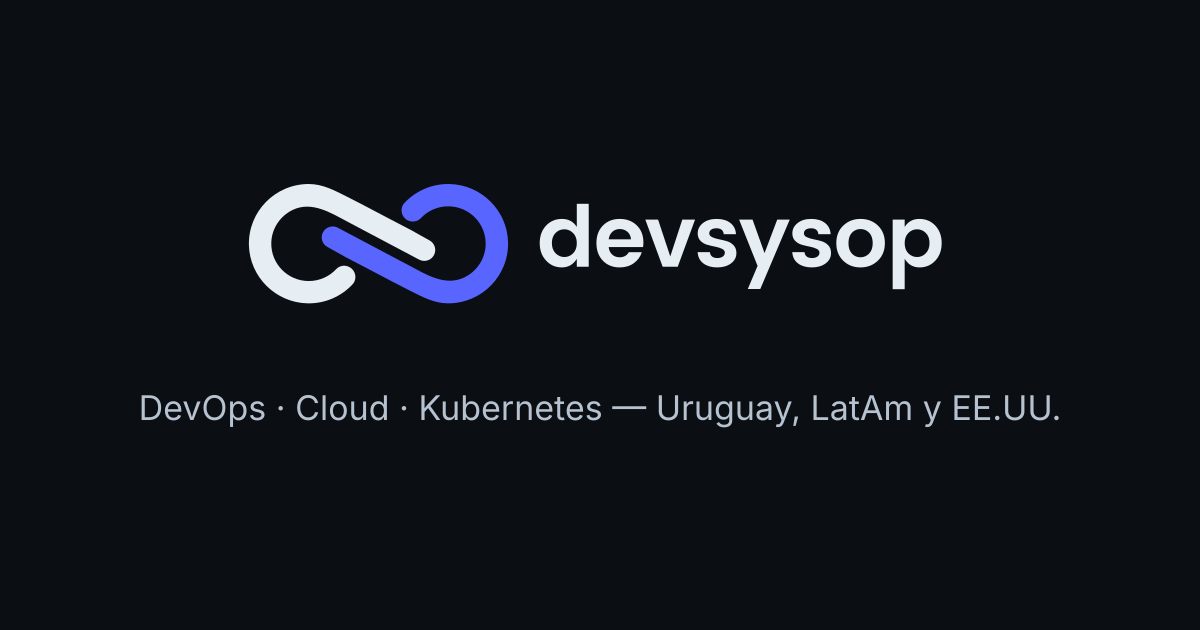
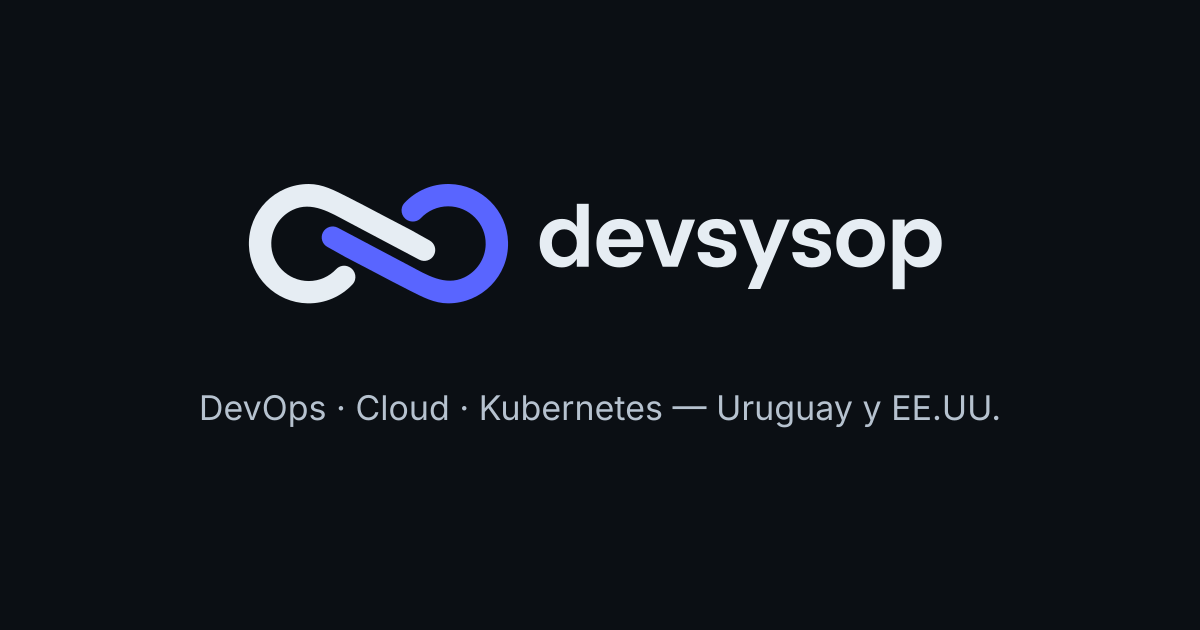
building new website Fri Nov 27 01:08:59 -03 2026

Changed region(s): [[0.0925, 0.6032, 0.8942, 0.6937]]

diff --git a/index.html b/index.html
@@ -4,7 +4,7 @@
   <meta charset="utf-8">
   <meta name="viewport" content="width=device-width, initial-scale=1">
   <title>DevSysOp — DevOps, Cloud y Kubernetes para tu empresa</title>
-  <meta name="description" content="Diseñamos, migramos y operamos infraestructura cloud para startups y pymes en Uruguay, Latinoamérica y EE.UU. CI/CD, Kubernetes, Terraform y soporte mensual.">
+  <meta name="description" content="Diseñamos, migramos y operamos infraestructura cloud para startups y pymes en Uruguay y EE.UU. CI/CD, Kubernetes, Terraform y soporte mensual.">
   <link rel="canonical" href="https://devsysop.com/">
 
   <meta property="og:type" content="website">
@@ -43,7 +43,7 @@
 <main>
   <section id="inicio" class="container hero">
     <div class="hero-copy">
-      <span class="eyebrow">DevOps · Cloud · Kubernetes — Uruguay, LatAm y EE.UU.</span>
+      <span class="eyebrow">DevOps · Cloud · Kubernetes — Uruguay y EE.UU.</span>
       <h1>Tu infraestructura cloud, automatizada y estable. Vos enfocate en tu producto.</h1>
       <p class="hero-lead">Diseñamos, migramos y operamos plataformas en la nube para startups y pymes que no tienen —o no quieren tener— un equipo de DevOps propio. Deploys sin miedo, costos bajo control y alguien que responde cuando algo falla.</p>
       <div class="btn-row">
@@ -91,14 +91,14 @@
         <span class="tag">Para empezar</span>
         <h3>Auditoría de infraestructura y costos</h3>
         <p>Revisamos tu cloud, seguridad y procesos de deploy. Te entregamos un informe con los problemas y un plan de mejoras priorizado.</p>
-        <ul><li>Entrega en [X] días</li><li>Ahorros de costo identificados</li><li>Reunión de presentación incluida</li></ul>
-        <p class="price">Desde [PRECIO] USD</p>
+        <ul><li>Entrega en 2 semanas</li><li>Ahorros de costo identificados</li><li>Reunión de presentación incluida</li></ul>
+        <p class="price">Desde 1.200 USD<span class="price-alt">o 48.000 UYU</span></p>
       </article>
       <article class="card">
         <h3>CI/CD y deploys automáticos</h3>
         <p>Pipelines que prueban, construyen y publican tu código solos. Ambientes de desarrollo, staging y producción separados.</p>
         <ul><li>GitHub Actions o GitLab CI</li><li>Rollback en un clic</li><li>Documentación para tu equipo</li></ul>
-        <p class="price">Desde [PRECIO] USD</p>
+        <p class="price">Desde 2.200 USD<span class="price-alt">o 88.000 UYU</span></p>
       </article>
       <article class="card">
         <h3>Migración a la nube y Kubernetes</h3>
@@ -109,10 +109,23 @@
       <article class="card">
         <h3>Soporte mensual de plataforma</h3>
         <p>Tu equipo de DevOps externo: mantenimiento, actualizaciones, guardias y mejoras continuas, por un abono fijo.</p>
-        <ul><li>[X] horas al mes</li><li>Respuesta a incidentes</li><li>Reporte mensual</li></ul>
-        <p class="price">Desde [PRECIO] USD/mes</p>
+        <ul><li>Desde 10 horas al mes</li><li>Respuesta a incidentes</li><li>Reporte mensual</li></ul>
+        <p class="price">Desde 650 USD/mes<span class="price-alt">o 26.000 UYU/mes</span></p>
       </article>
     </div>
+    <div class="hours">
+      <div class="hours-copy">
+        <h3>Bolsa de horas prepagas</h3>
+        <p>Para tareas puntuales, consultas o urgencias. Comprás las horas por adelantado y las usás cuando las necesitás, durante 3 meses.</p>
+        <p class="small">Hora suelta, sin paquete: 80 USD · 3.200 UYU</p>
+      </div>
+      <div class="hours-grid">
+        <div class="hours-opt"><strong>10 horas</strong><span>650 USD</span><span class="small">26.000 UYU</span></div>
+        <div class="hours-opt"><strong>25 horas</strong><span>1.500 USD</span><span class="small">60.000 UYU</span></div>
+        <div class="hours-opt featured"><strong>50 horas</strong><span>2.750 USD</span><span class="small">110.000 UYU</span></div>
+      </div>
+    </div>
+    <p class="small" style="margin-top: 16px; font-size: 13px">Precios sin IVA. Los valores en pesos uruguayos se calcularon a 1 USD = 40 UYU y pueden ajustarse según la cotización.</p>
   </section>
 
   <section id="proceso" class="band">
@@ -161,18 +174,19 @@
   <section class="container" style="padding-bottom: 96px">
     <div class="case">
       <div class="case-copy">
-        <span class="eyebrow">Caso real</span>
-        <h3>[Tipo de empresa]: [qué problema tenía]</h3>
-        <p class="muted">[Qué hicieron y qué resultado concreto lograron: menos tiempo de deploy, menos costo, menos caídas. Puede ser anónimo.]</p>
+        <span class="eyebrow">Primer cliente</span>
+        <h3>Óptica Briozzo: todos sus puestos de trabajo, listos para usar</h3>
+        <p class="muted">Instalamos y configuramos todas las computadoras de la óptica: entorno de escritorio, impresoras, drivers y accesos de cada usuario. También les dimos soporte técnico tipo help desk para que el equipo trabajara sin interrupciones.</p>
+        <p class="small"><a href="https://opticabriozzo.uy/" target="_blank" rel="noopener">opticabriozzo.uy</a></p>
       </div>
-      <blockquote>“[Frase de un cliente, con su permiso.]”<cite>— [Nombre, cargo, empresa]</cite></blockquote>
+      <blockquote>“Nos dejaron todas las computadoras, impresoras y accesos funcionando, y cada vez que necesitamos algo respondieron rápido. Muy recomendables.”<cite>— Luis Briozzo, Óptica Briozzo</cite></blockquote>
     </div>
   </section>
 
   <section id="faq" class="band">
     <div class="container section faq">
       <h2>Preguntas frecuentes</h2>
-      <details><summary>¿Trabajan con empresas fuera de Uruguay?</summary><p>Sí. Trabajamos de forma remota con clientes en Uruguay, el resto de Latinoamérica y Estados Unidos, en español o inglés. Facturamos en dólares.</p></details>
+      <details><summary>¿Trabajan con empresas fuera de Uruguay?</summary><p>Sí. Trabajamos con empresas en Uruguay y en Estados Unidos, de forma remota, en español o inglés. Facturamos en dólares o en pesos uruguayos.</p></details>
       <details><summary>Somos una empresa chica, ¿esto es para nosotros?</summary><p>Justamente. Si no tenés presupuesto para contratar un DevOps a tiempo completo, te damos ese conocimiento por proyecto o por abono mensual.</p></details>
       <details><summary>¿Qué nubes y herramientas manejan?</summary><p>AWS, Google Cloud y Azure, con Kubernetes, Terraform, ArgoCD, GitHub Actions y Prometheus/Grafana, entre otras.</p></details>
       <details><summary>¿La infraestructura queda a nuestro nombre?</summary><p>Siempre. Las cuentas y el código son tuyos, y todo queda documentado para que no dependas de nosotros.</p></details>
@@ -186,10 +200,9 @@
     <div class="btn-row">
       <!-- Reemplazar # por tu link de Cal.com o Calendly -->
       <a href="#" class="btn btn-primary">Agendar llamada</a>
-      <!-- Reemplazar 598XXXXXXXX por tu número con código de país, sin + ni espacios -->
-      <a href="https://wa.me/598XXXXXXXX" class="btn btn-ghost">Escribinos por WhatsApp</a>
+      <a href="https://wa.me/59897435356?text=Hola%2C%20quiero%20consultar%20por%20los%20servicios%20de%20DevSysOp" class="btn btn-ghost">Escribinos por WhatsApp</a>
     </div>
-    <p class="small">o escribinos a <a href="mailto:hola@devsysop.com">hola@devsysop.com</a></p>
+    <p class="small">WhatsApp: <a href="https://wa.me/59897435356">097 435 356</a> (desde EE.UU.: +598 97 435 356) · <a href="mailto:ventas@devsysop.com">ventas@devsysop.com</a></p>
   </section>
 </main>
 

diff --git a/styles.css b/styles.css
@@ -71,6 +71,17 @@ img { display: block; max-width: 100%; }
 .terminal-body .o { color: var(--text-3); }
 .terminal-body .ok { color: var(--accent); margin-top: 8px; }
 
+/* Hours */
+.price-alt { display: block; font-family: Inter, sans-serif; font-size: 14px; font-weight: 400; color: var(--text-3); }
+.hours { margin-top: 20px; background: var(--bg-2); border: 1px solid var(--line); border-radius: var(--radius); padding: 28px; display: flex; flex-wrap: wrap; gap: 28px; align-items: center; }
+.hours-copy { flex: 1 1 320px; min-width: 0; display: flex; flex-direction: column; gap: 8px; }
+.hours-copy h3 { font-size: 22px; }
+.hours-copy p:not(.small) { color: var(--text-2); font-size: 15px; }
+.hours-grid { flex: 2 1 480px; min-width: 0; display: grid; gap: 12px; grid-template-columns: repeat(auto-fit, minmax(140px, 1fr)); }
+.hours-opt { border: 1px solid var(--line-2); border-radius: 10px; padding: 16px; display: flex; flex-direction: column; }
+.hours-opt.featured { border-color: var(--accent); }
+.hours-opt strong { font-family: 'Space Grotesk', sans-serif; font-size: 18px; }
+
 /* Grids */
 .grid { display: grid; gap: 20px; grid-template-columns: repeat(auto-fit, minmax(240px, 1fr)); }
 .problem h3 { font-size: 18px; margin-bottom: 8px; }

diff --git a/README.md b/README.md
@@ -31,11 +31,14 @@ Si alguna vez deja de funcionar, revisá en GitHub: **Settings → Pages**
 
 El archivo `CNAME` tiene que quedar en el repo: es el que le dice a GitHub qué dominio usar.
 
+## Precios
+
+Los precios en pesos uruguayos se calcularon a 1 USD = 40 UYU. Si el dólar se mueve mucho, actualizalos en `index.html`.
+
 ## Pendientes antes de publicar
 
 Buscá `[` en `index.html` para encontrar todo lo que falta completar:
 
-- Precios y plazos de los paquetes
 - Nombres, fotos y experiencia
 - Caso real y testimonio
 - Forma de pago
